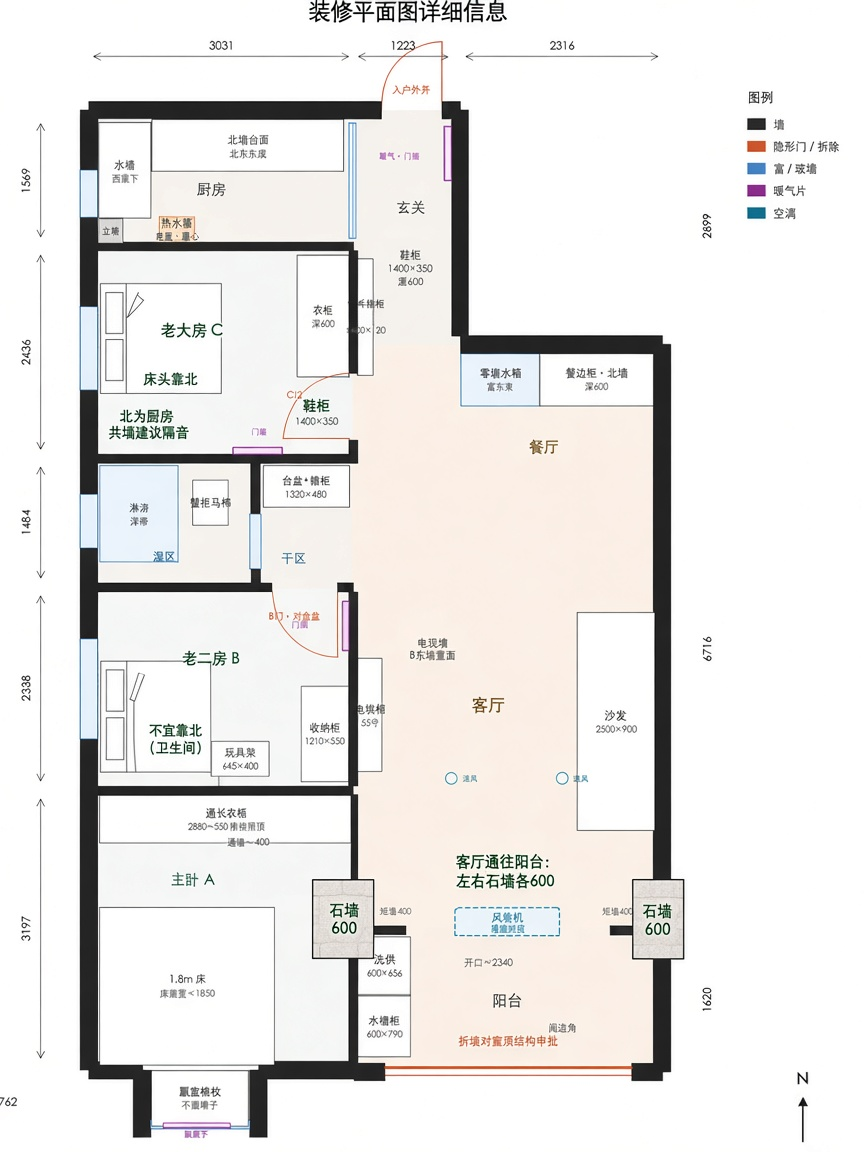
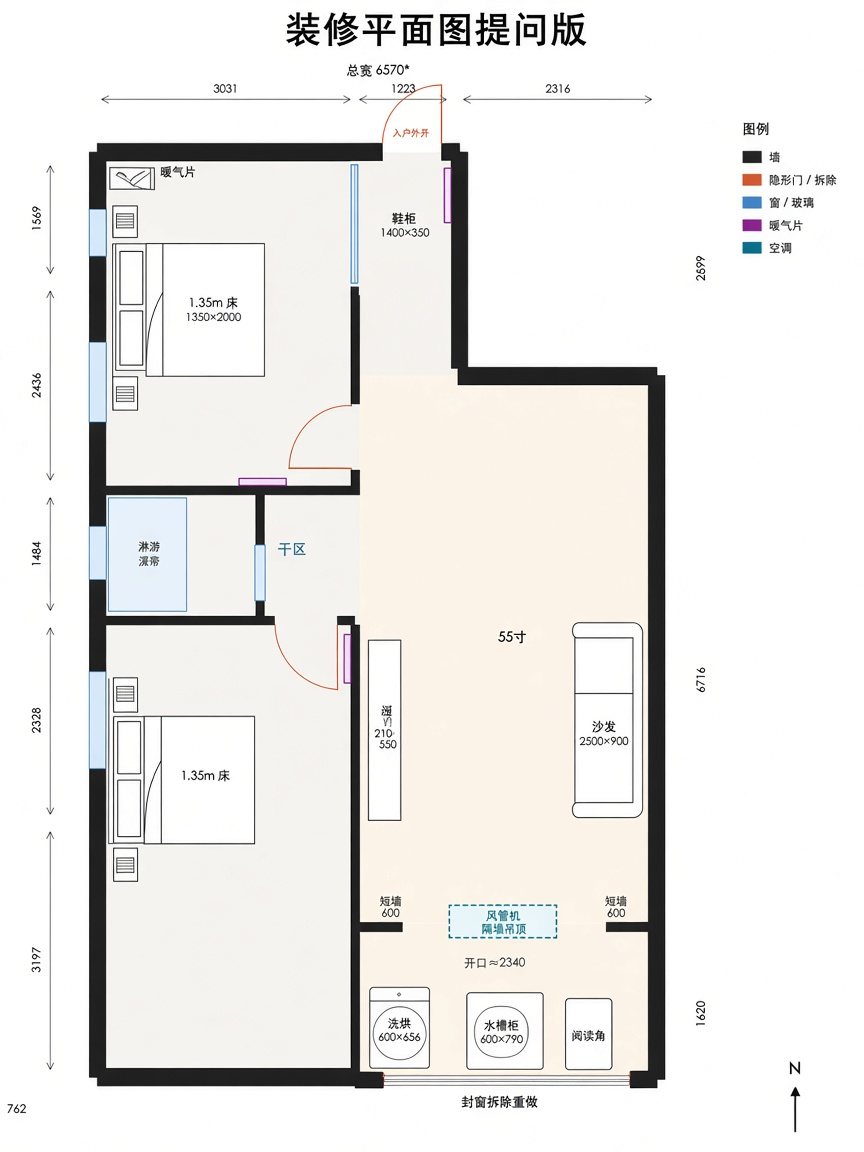
Fix living-balcony junction to match original plan
Use original 短墙 600 on both sides and opening ≈2340 with
ducted-AC bulkhead; remove incorrect 石墙 addition wording.

diff --git a/floor-plan-revision/index.html b/floor-plan-revision/index.html
@@ -395,20 +395,22 @@
           <text x="5400" y="7480" text-anchor="middle" font-size="90" fill="#1f8a7a">回风</text>
         </g>
 
-        <!-- ========== 阳台：通往洞口左右各保留 600 石墙 ========== -->
+        <!-- ========== 阳台：按原图 — 左右短墙各 600，开口 ≈2340 ========== -->
         <g id="balcony">
-          <!-- 左石墙 600 -->
-          <rect x="3171" y="7720" width="600" height="240" fill="#2b2b2b" stroke="#0f6b4c" stroke-width="20" />
-          <text x="3471" y="7680" text-anchor="middle" font-size="95" fill="#0f6b4c" font-weight="700">石墙 600</text>
-          <!-- 中部洞口（客厅↔阳台） -->
-          <rect x="3771" y="7780" width="2199" height="120" fill="#fffdf8" stroke="#c45c26" stroke-width="16" stroke-dasharray="40 24" />
-          <text x="4860" y="7680" text-anchor="middle" font-size="95" fill="#c45c26">洞口（中部通行）</text>
-          <!-- 右石墙 600 -->
-          <rect x="5970" y="7720" width="600" height="240" fill="#2b2b2b" stroke="#0f6b4c" stroke-width="20" />
-          <text x="6270" y="7680" text-anchor="middle" font-size="95" fill="#0f6b4c" font-weight="700">石墙 600</text>
-          <text x="4860" y="8040" text-anchor="middle" font-size="100" fill="#0f6b4c">客厅通往阳台：左右石墙各 600</text>
+          <!-- 左短墙 600 -->
+          <rect x="3171" y="7700" width="600" height="220" fill="#2b2b2b" />
+          <text x="3471" y="7640" text-anchor="middle" font-size="105" font-weight="700">短墙 600</text>
+          <!-- 开口 ≈2340 -->
+          <line x1="3771" y1="7810" x2="6111" y2="7810" stroke="#1a1f24" stroke-width="10" stroke-dasharray="50 28" />
+          <text x="4941" y="7640" text-anchor="middle" font-size="105">开口 ≈2340</text>
+          <!-- 风管机隔墙吊顶（原图） -->
+          <rect x="3850" y="7720" width="2180" height="160" fill="none" stroke="#1f8a7a" stroke-width="18" stroke-dasharray="40 24" />
+          <text x="4941" y="7830" text-anchor="middle" font-size="90" fill="#1f8a7a" font-weight="600">风管机 隔墙吊顶</text>
+          <!-- 右短墙 600 -->
+          <rect x="6111" y="7700" width="459" height="220" fill="#2b2b2b" />
+          <text x="6340" y="7640" text-anchor="middle" font-size="105" font-weight="700">短墙 600</text>
 
-          <rect x="3171" y="7960" width="3399" height="3816" fill="rgba(15,107,76,0.06)" stroke="#0f6b4c" stroke-width="22" />
+          <rect x="3171" y="7920" width="3399" height="3856" fill="#fffdf8" stroke="#1a1f24" stroke-width="22" />
           <text x="4800" y="8300" text-anchor="middle" font-size="160" font-weight="700">阳台</text>
 
           <!-- 洗烘 -->
@@ -482,8 +484,8 @@
           <li><strong>老二房 B</strong>：床头靠南、不宜靠北（北为卫生间）；壁挂玩具+矮柜，留活动区。</li>
           <li><strong>客厅</strong>：无暖气片（采暖靠风管机等）。</li>
           <li><strong>玄关鞋柜</strong>：1400×350；门后暖气净距 ≥200mm。</li>
-          <li><strong>客厅→阳台</strong>：洞口左右各保留石墙 600mm；中部通行；封窗重做须报批。</li>
-          <li><strong>电视墙</strong>：隔音层注记。</li>
+          <li><strong>客厅→阳台</strong>：按原图，左右各<strong>短墙 600</strong>，中部开口 ≈2340，上为风管机隔墙吊顶。</li>
+          <li><strong>电视墙</strong>：隔音层注记；阳台外窗封窗重做须报批。</li>
         </ol>
       </div>
 

diff --git a/floor-plan-revision/README.md b/floor-plan-revision/README.md
@@ -13,8 +13,8 @@
 3. **老二房 B**：床头靠南；**不宜靠北**（北为卫生间）；壁挂玩具 + 矮柜，留活动区。
 4. **客厅**：无暖气片。
 5. **玄关鞋柜**：深度 180 → 350 mm。
-6. **客厅→阳台**：洞口左右各保留石墙 **600mm**；中部为通行洞口；外窗封窗重做须报批。
-7. **电视墙**：隔音层注记。
+6. **客厅→阳台**：按原图，左右各 **短墙 600**，中部 **开口 ≈2340**，上为风管机隔墙吊顶（不是新增石墙）。
+7. **电视墙**：隔音层注记；阳台外窗封窗重做须报批。
 
 ## 床头朝向说明
 
